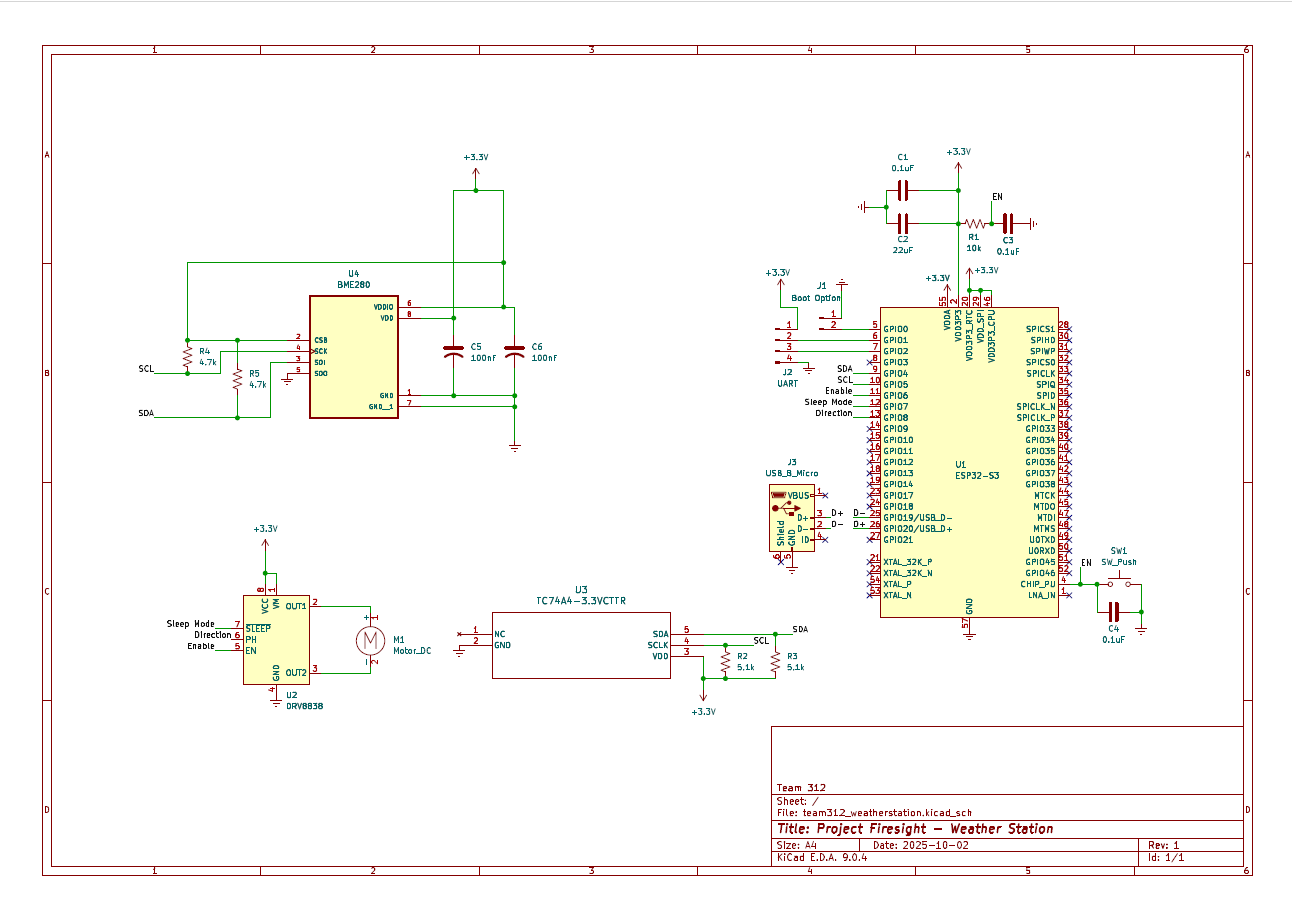
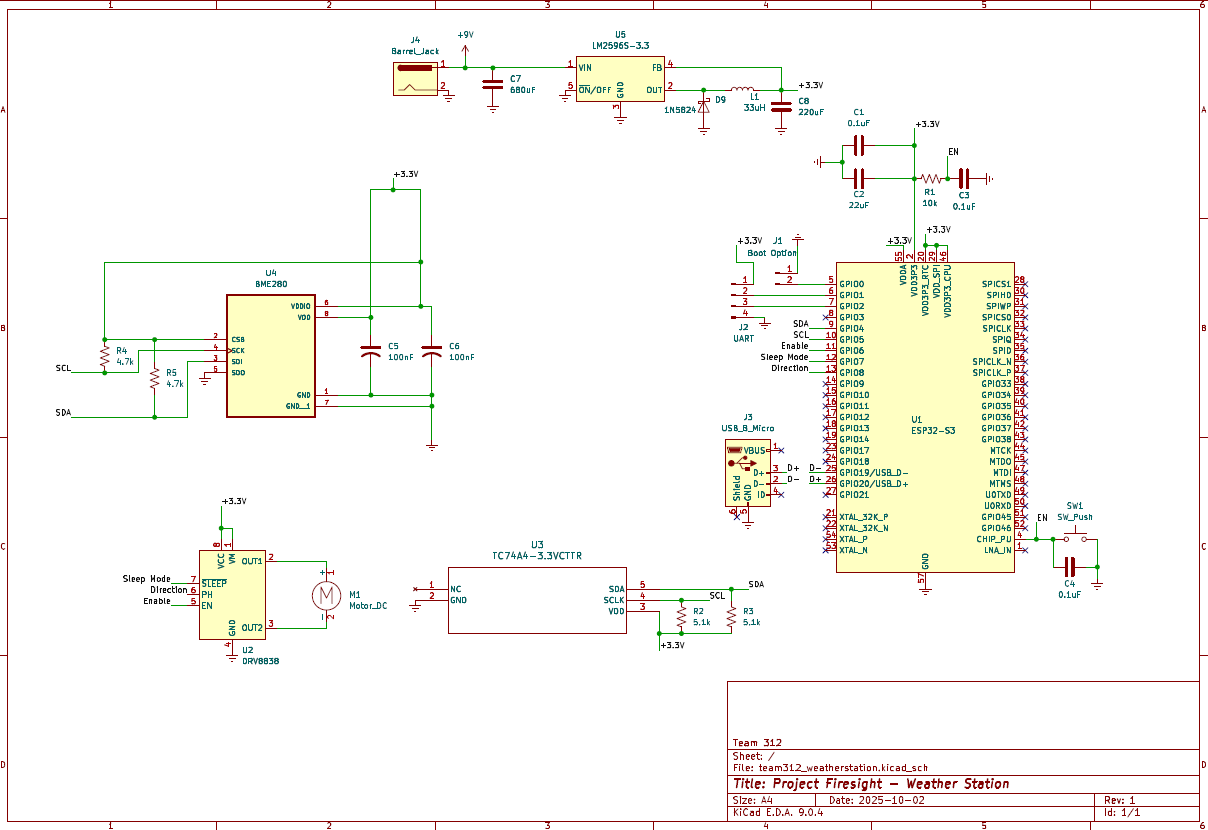
deploy: 7653a8507a7ab0935200a7e50e01d7b25771844b

diff --git a/BOM/index.html b/BOM/index.html
@@ -1047,14 +1047,14 @@
 </thead>
 <tbody>
 <tr>
-<td>IC REG BUCK 5V 3A TO263</td>
+<td>IC REG BUCK 3V 3A TO263</td>
 <td>4</td>
-<td>$6.97</td>
+<td>$3.32</td>
 <td>Texas Instruments</td>
-<td>LM2596S-(5.0/3.3V)/NOPB</td>
+<td>LM2596S-(3.3V)/NOPB</td>
 <td>Digikey</td>
-<td>$27.88</td>
-<td>$299.55</td>
+<td>$13.28</td>
+<td>$284.95</td>
 </tr>
 <tr>
 <td>FIXED IND 33UH 4.1A 92 MOHM SMD</td>
